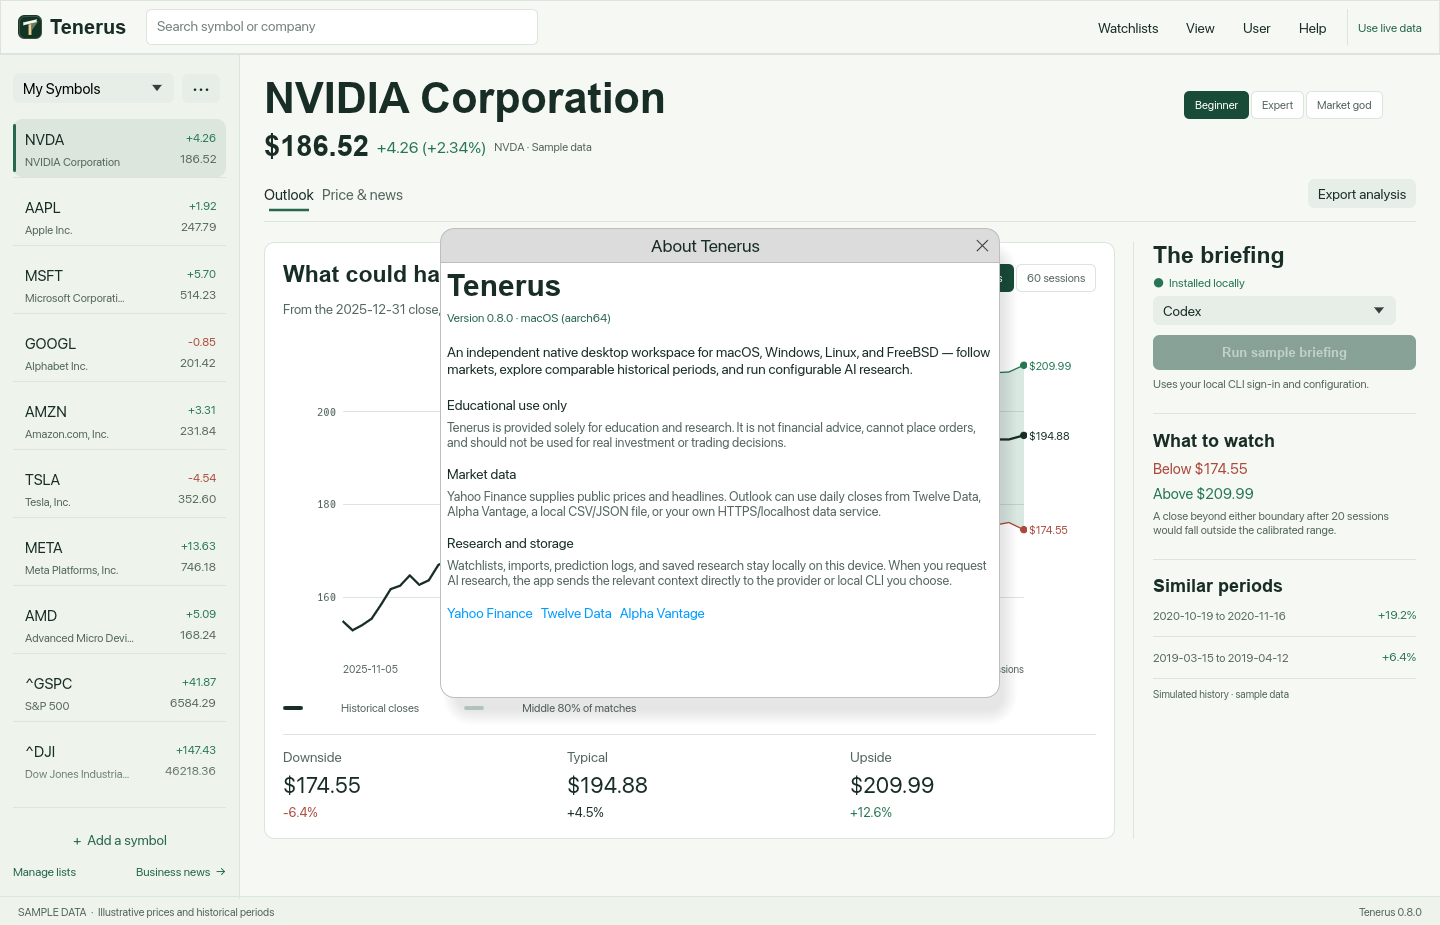
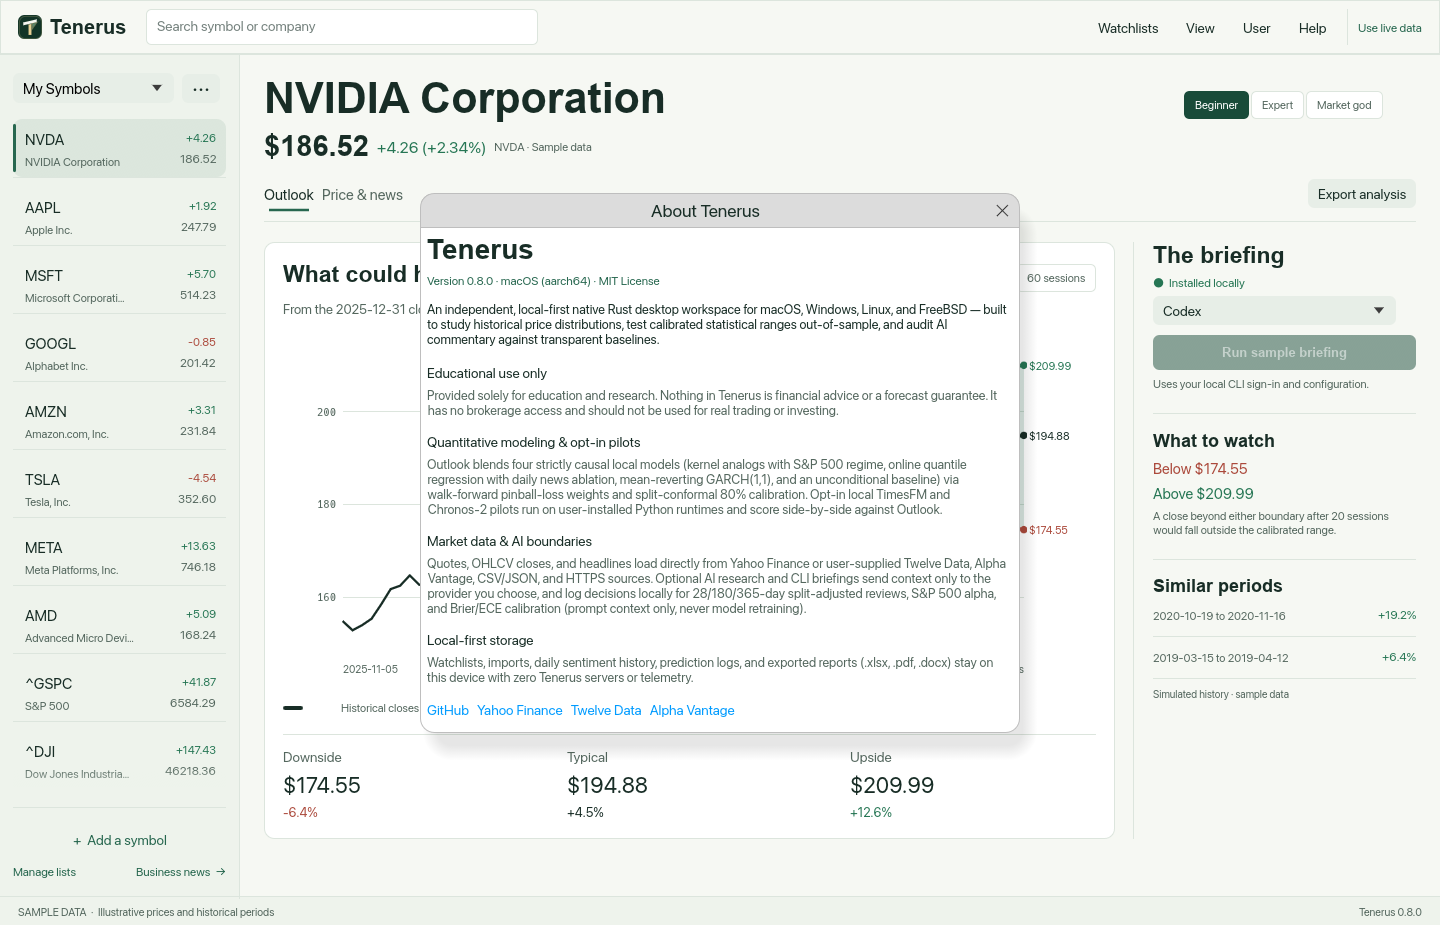
Enhance in-app About Tenerus dialog with accurate v0.8.0 scope and boundaries

Changed region(s): [[0.2812, 0.1816, 0.7188, 0.8173]]

diff --git a/src/ui/support.rs b/src/ui/support.rs
@@ -73,7 +73,7 @@ impl MarketApp {
         };
         let mut open = true;
         let size = match page {
-            InfoPage::About => vec2(560., 470.),
+            InfoPage::About => vec2(600., 540.),
             _ => vec2(535., 360.),
         };
         dialog_window(ctx, page.title(), size)
@@ -83,7 +83,7 @@ impl MarketApp {
             .vscroll(true)
             .show(ctx, |ui| match page {
                 InfoPage::About => {
-                    ui.label(display_text("Tenerus", 30., p.text));
+                    ui.label(display_text("Tenerus", 28., p.text));
                     let platform = match std::env::consts::OS {
                         "macos" => "macOS",
                         "windows" => "Windows",
@@ -94,7 +94,7 @@ impl MarketApp {
                     text(
                         ui,
                         format!(
-                            "Version {} · {} ({})",
+                            "Version {} · {} ({}) · MIT License",
                             env!("CARGO_PKG_VERSION"),
                             platform,
                             std::env::consts::ARCH
@@ -102,33 +102,40 @@ impl MarketApp {
                         12.,
                         p.blue,
                     );
-                    ui.add_space(12.);
+                    ui.add_space(8.);
                     text(
                         ui,
-                        "An independent native desktop workspace for macOS, Windows, Linux, and FreeBSD — follow markets, explore comparable historical periods, and run configurable AI research.",
-                        14.,
+                        "An independent, local-first native Rust desktop workspace for macOS, Windows, Linux, and FreeBSD — built to study historical price distributions, test calibrated statistical ranges out-of-sample, and audit AI commentary against transparent baselines.",
+                        13.,
                         p.text,
                     );
-                    ui.add_space(12.);
+                    ui.add_space(10.);
                     info_section(
                         ui,
                         p,
                         "Educational use only",
-                        "Tenerus is provided solely for education and research. It is not financial advice, cannot place orders, and should not be used for real investment or trading decisions.",
+                        "Provided solely for education and research. Nothing in Tenerus is financial advice or a forecast guarantee. It has no brokerage access and should not be used for real trading or investing.",
                     );
                     info_section(
                         ui,
                         p,
-                        "Market data",
-                        "Yahoo Finance supplies public prices and headlines. Outlook can use daily closes from Twelve Data, Alpha Vantage, a local CSV/JSON file, or your own HTTPS/localhost data service.",
+                        "Quantitative modeling & opt-in pilots",
+                        "Outlook blends four strictly causal local models (kernel analogs with S&P 500 regime, online quantile regression with daily news ablation, mean-reverting GARCH(1,1), and an unconditional baseline) via walk-forward pinball-loss weights and split-conformal 80% calibration. Opt-in local TimesFM and Chronos-2 pilots run on user-installed Python runtimes and score side-by-side against Outlook.",
                     );
                     info_section(
                         ui,
                         p,
-                        "Research and storage",
-                        "Watchlists, imports, prediction logs, and saved research stay locally on this device. When you request AI research, the app sends the relevant context directly to the provider or local CLI you choose.",
+                        "Market data & AI boundaries",
+                        "Quotes, OHLCV closes, and headlines load directly from Yahoo Finance or user-supplied Twelve Data, Alpha Vantage, CSV/JSON, and HTTPS sources. Optional AI research and CLI briefings send context only to the provider you choose, and log decisions locally for 28/180/365-day split-adjusted reviews, S&P 500 alpha, and Brier/ECE calibration (prompt context only, never model retraining).",
+                    );
+                    info_section(
+                        ui,
+                        p,
+                        "Local-first storage",
+                        "Watchlists, imports, daily sentiment history, prediction logs, and exported reports (.xlsx, .pdf, .docx) stay on this device with zero Tenerus servers or telemetry.",
                     );
                     ui.horizontal_wrapped(|ui| {
+                        ui.hyperlink_to("GitHub", "https://github.com/bnelabs/tenerus");
                         ui.hyperlink_to("Yahoo Finance", "https://finance.yahoo.com/");
                         ui.hyperlink_to("Twelve Data", "https://twelvedata.com/");
                         ui.hyperlink_to("Alpha Vantage", "https://www.alphavantage.co/");
